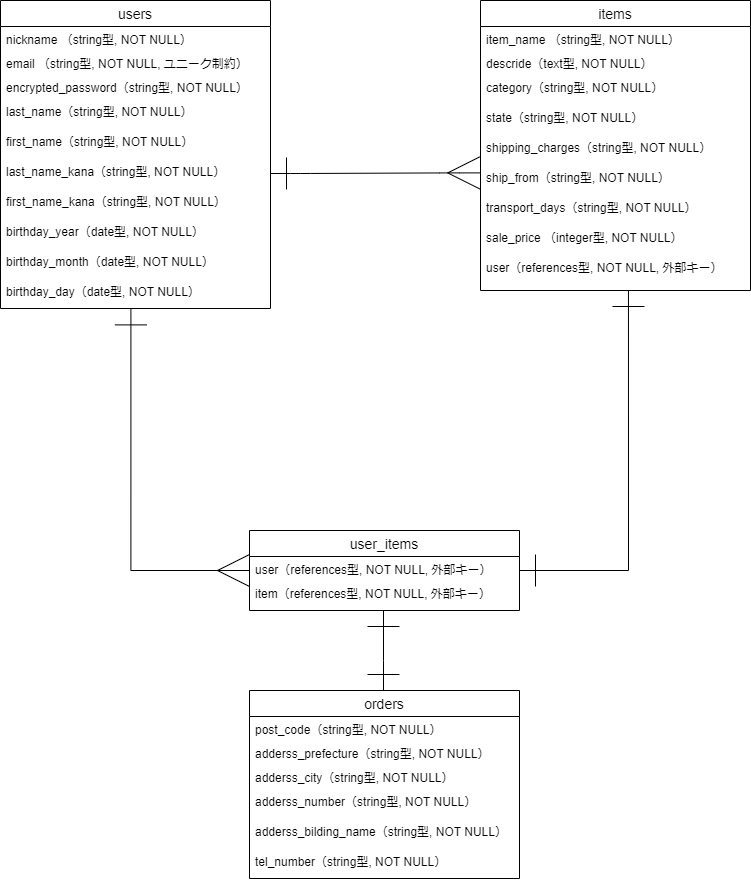
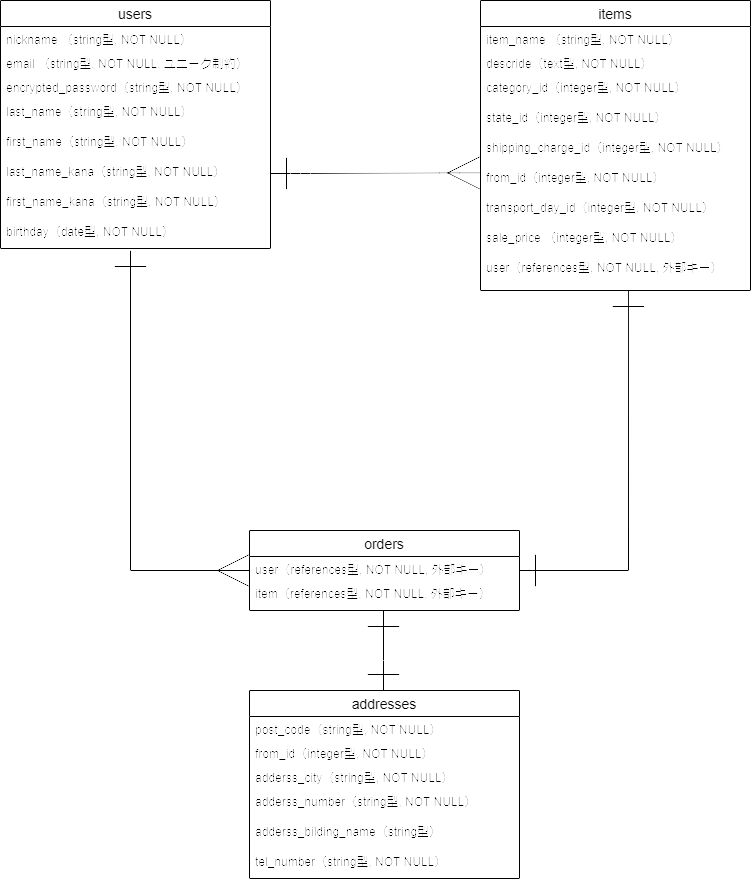
ER図・データベース設計の修正

diff --git a/README.md b/README.md
@@ -1,64 +1,62 @@
 ## usersテーブル
 
-|Column                |Type            |Options                          |
-|----------------------|----------------|---------------------------------|
-|nickname              |string型        |null: false                      |
-|email                 |string型        |null: false, unique: true        |
-|encrypted_password    |string型        |null: false                      |
-|last_name             |string型        |null: false                      |
-|first_name            |string型        |null: false                      |
-|last_name_kana        |string型        |null: false                      |
-|first_name_kana       |string型        |null: false                      |
-|birthday_year         |date型          |null: false                      |
-|birthday_month        |date型          |null: false                      |
-|birthday_day          |date型          |null: false                      |
+|Column                |Type          |Options                          |
+|----------------------|--------------|---------------------------------|
+|nickname              |string        |null: false                      |
+|email                 |string        |null: false, unique: true        |
+|encrypted_password    |string        |null: false                      |
+|last_name             |string        |null: false                      |
+|first_name            |string        |null: false                      |
+|last_name_kana        |string        |null: false                      |
+|first_name_kana       |string        |null: false                      |
+|birthday              |date          |null: false                      |
 
 ### Association
 has_many :items
-has_many :user_items
+has_many :orders
 
 ## itemsテーブル
 
-|Column                |Type            |Options                          |
-|----------------------|----------------|---------------------------------|
-|item_name             |string型        |null: false                      |
-|describe              |text型          |null: false                      |
-|category              |string型        |null: false                      |
-|state                 |string型        |null: false                      |
-|shipping_charges      |string型        |null: false                      |
-|ship_from             |string型        |null: false                      |
-|transport_days        |string型        |null: false                      |
-|sale_price            |integer型       |null: false                      |
-|user                  |references型    |null: false,foreign_key: true    |
+|Column                |Type          |Options                          |
+|----------------------|--------------|---------------------------------|
+|item_name             |string        |null: false                      |
+|describe              |text          |null: false                      |
+|category_id           |integer       |null: false                      | <!-- Activehash -->
+|state_id              |integer       |null: false                      | <!-- Activehash -->
+|shipping_charge_id    |integer       |null: false                      | <!-- Activehash -->
+|from_id               |integer       |null: false                      | <!-- Activehash -->
+|transport_day_id      |integer       |null: false                      | <!-- Activehash --> 
+|sale_price            |integer       |null: false                      |
+|user                  |references    |null: false,foreign_key: true    |
 
 ### Association
 belongs_to :user
-has_one :user_item
+has_one :order
 
 
-## user_itemsテーブル
+## ordersテーブル
 
-|Column                |Type            |Options                          |
-|----------------------|----------------|---------------------------------|
-|user                  |references型    |null: false,foreign_key: true    |
-|item                  |references型    |null: false,foreign_key: true    |
+|Column                |Type          |Options                          |
+|----------------------|--------------|---------------------------------|
+|user                  |references    |null: false,foreign_key: true    |
+|item                  |references    |null: false,foreign_key: true    |
 
 
 ### Association
 belongs_to :user
 has_one :item
-has_one :order
+has_one :address
 
-## ordersテーブル
+## addressesテーブル
 
-|Column                |Type            |Options                          |
-|----------------------|----------------|---------------------------------|
-|post_code             |string型        |null: false                      |
-|adderss_prefecture    |text型          |null: false                      |
-|adderss_city          |string型        |null: false                      |
-|adderss_number        |string型        |null: false                      |
-|adderss_bilding_name  |string型        |null: false                      |
-|tel_number            |string型        |null: false                      |
+|Column                |Type          |Options                          |
+|----------------------|--------------|---------------------------------|
+|post_code             |string        |null: false                      |
+|from_id               |integer       |null: false                      | <!-- Activehash -->
+|adderss_city          |string        |null: false                      |
+|adderss_number        |string        |null: false                      |
+|adderss_bilding_name  |string        |                                 |
+|tel_number            |string        |null: false                      |
 
 ### Association
-has_one :user_item
+belongs_to :order
